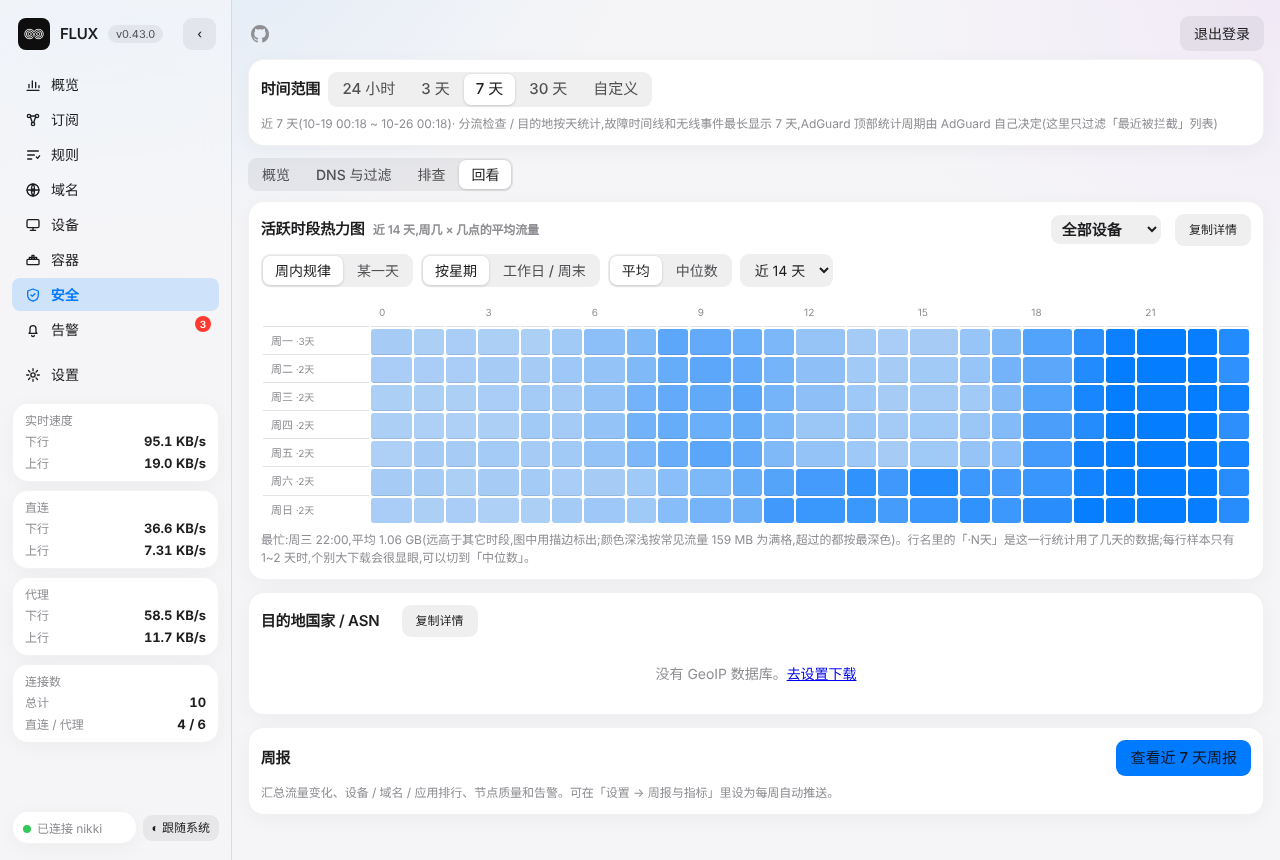
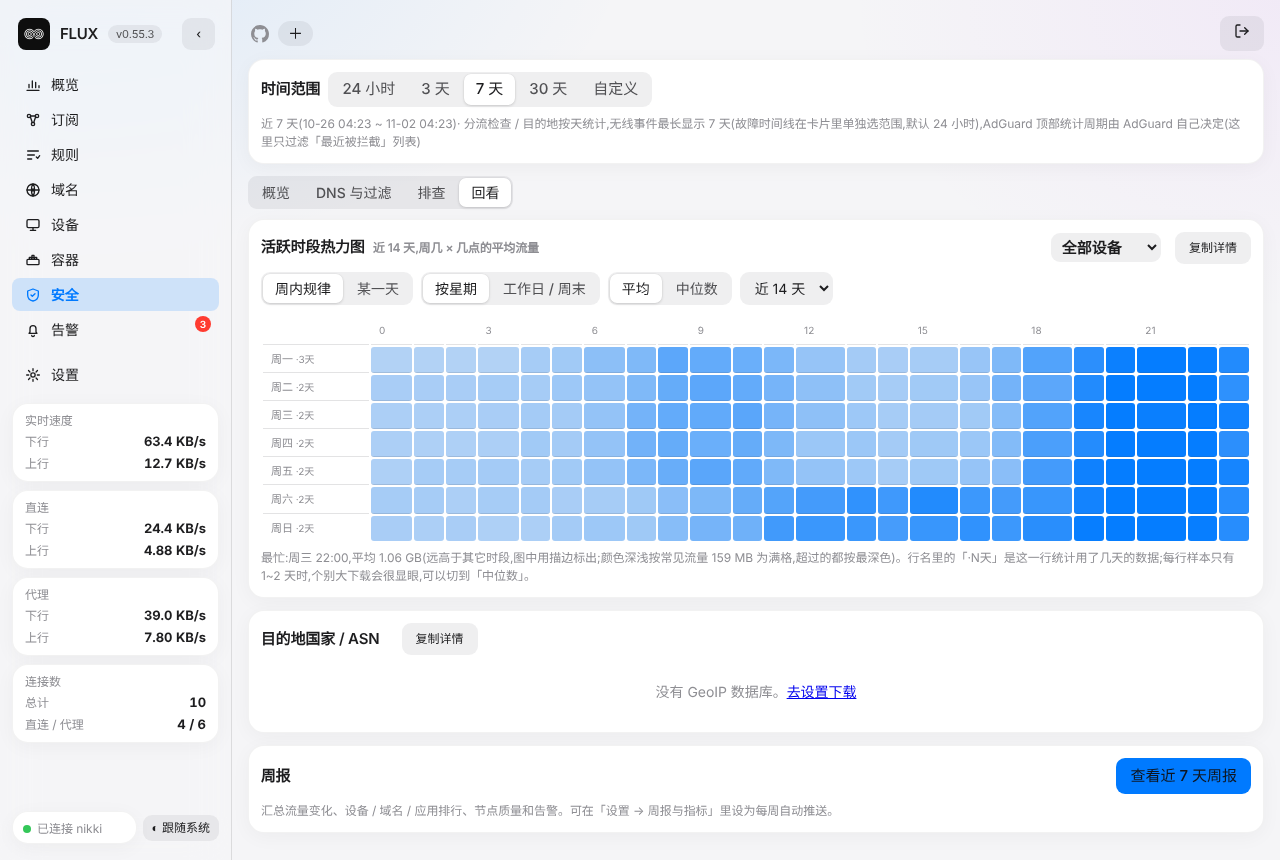
docs: 更新功能介绍与截图(连接监控中心、搜索结果详情)
Claude-Session: https://claude.ai/code/session_01GtGpDSTma1sKiSfQkHSTpF

diff --git a/tests/docshots.py b/tests/docshots.py
@@ -78,6 +78,19 @@ try:
                 pg.keyboard.press("Escape"); pg.evaluate("document.getElementById('glPop')&&document.getElementById('glPop').remove()")
             if scheme == "dark":
                 continue
+            # 连接监控中心 / 搜索结果详情(含列设置弹窗)
+            go("overview"); pg.evaluate("openCM()"); pg.wait_for_timeout(2500)
+            bx = pg.query_selector("#cmm .box")
+            if bx: bx.screenshot(path=f"{OUT}/conn-center.png")
+            pg.evaluate("document.querySelector('#cmm').classList.remove('open')")
+            pg.fill("#hostQ", "a"); pg.wait_for_timeout(4500)
+            sr = pg.query_selector("#srCard")
+            if sr and sr.is_visible(): sr.screenshot(path=f"{OUT}/search-detail.png")
+            else: print("警告:搜索结果详情没有出现")
+            pg.click("#srCfg"); pg.wait_for_timeout(500)
+            bx = pg.query_selector("#srm .box")
+            if bx: bx.screenshot(path=f"{OUT}/search-settings.png")
+            pg.click("#srmX"); pg.fill("#hostQ", ""); pg.wait_for_timeout(1500)
             go("nodes"); pg.screenshot(path=f"{OUT}/nodes.png")
             go("devices"); pg.wait_for_timeout(1500); pg.screenshot(path=f"{OUT}/devices.png")
             nd = pg.query_selector("#newDevCard")

diff --git a/docs/FEATURES.md b/docs/FEATURES.md
@@ -32,6 +32,8 @@
 - 连接历史与异常事件(v0.51):按资源自动选运行档位(带滞回)、设备分钟历史、异常事件前 60 秒 / 后 180 秒现场快照、300MB 存储预算与清理
 - 设备行为基线与异常判定(v0.52):按小时基线、14 类信号、四级结果与可信度、规则式诊断文字、「连接行为异常」告警(仅高度可疑推送)
 - 连接监控中心(v0.53):主面板「连接数」卡片 / 设备页入口;核心指标、设备 TOP(相对平时 / 级别)、最近事件、系统状态与降级原因;设备诊断页(多时间范围趋势、事件筛选)、事件详情(诊断六段 + 现场快照)、CSV / JSON / TXT 导出
+- 连接监控增强(v0.54):规则健康卡片可复制;设备诊断趋势可按协议(TCP / UDP)和端口筛选(端口只对单台设备有效,近似值);可叠加「昨天同时段」虚线对比
+- 概览搜索结果详情(v0.54.1 ~ v0.55.3):在概览顶部搜索时出现整行卡片,「实时连接」列出类型、设备 / 源IP、主机、代理链、下载 / 上传速度、累计下载 / 上传、连接时间、远端地址、规则,另有进程、出站节点、源端口、嗅探主机、解析地址、解析类型、归属信息、入站用户可选;「时段明细」按顶部时间范围列出设备 / 域名 / 去向 / 策略组 / 规则 / 流量;两张表都可翻页、复制、导出 CSV;「隐藏连接」开关 + 「设置」弹窗(隐藏正则、完整显示代理链、列的增删排序,存在本浏览器);表格宽度按内容自适应,刷新和翻页保住横向滚动位置
 - 自检降噪与诊断包对比(v0.49):盘符翻译成挂载点、设备直连失败归并可忽略、订阅可停用提醒、网关丢包结合重传率判断、两份诊断包对比
 - 开机阶段静默(v0.48.4):路由器日志严重信息可设「开机后前 N 分钟不推送」,默认 10 分钟,只记时间线
 - 小内存 / SD 卡设备:可通过 `INTERVAL_SEC` / `FLUSH_SEC` / `KEEP_DAYS` / `HOUR_KEEP_DAYS` 降低写入和占用(见 README「安装」)

diff --git a/README.md b/README.md
@@ -7,6 +7,7 @@
 - 按 **设备 / 机场 / 节点 / 策略组 / 规则 / 访问目标** 统计流量,看实时速度和小时 / 天趋势
 - 查某个域名走哪条规则、哪个节点,还能**实时测试**(不只看历史)
 - 路由器状态、宽带质量、DNS 拦截(AdGuard Home)、告警与推送、UPS、Docker 容器、周对比 / 故障时间线 / Wi-Fi 事件
+- **连接监控中心**:每台设备的连接数、TCP / UDP、相对平时的偏离、异常事件和诊断(按设备自己的小时基线判断,不是攻击判定);概览顶部搜索时列出匹配的**实时连接和时段明细**,列可自定义,可复制 / 导出
 - **新设备一眼找到**(设备页「新设备」卡片)、**活跃时段热力图**(周内 / 工作日 vs 周末 / 某一天)
 - 数据只存在你自己的路由器上(SQLite),不联网上报。面板对路由器和 nikki **只读**,只给建议,不替你改配置
 
@@ -17,6 +18,14 @@
 | 概览(浅色) | 概览(深色) |
 |---|---|
 | ![概览](docs/img/overview.png) | ![概览-深色](docs/img/overview-dark.png) |
+
+| 连接监控中心(设备 TOP / 相对平时 / 异常事件) | 概览搜索 · 搜索结果详情(实时连接 + 时段明细) |
+|---|---|
+| ![连接监控中心](docs/img/conn-center.png) | ![搜索结果详情](docs/img/search-detail.png) |
+
+| 搜索结果详情 · 设置(隐藏连接正则 / 自定义表格列) | |
+|---|---|
+| ![搜索设置](docs/img/search-settings.png) | |
 
 | 订阅与节点(评分 / 套餐) | 设备 |
 |---|---|
